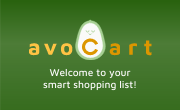
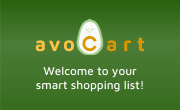
remove obsolete twitter tag, crop og image to visible area

Changed region(s): [[0.1389, 0.2182, 0.8611, 0.5455], [0.1944, 0.6, 0.8056, 0.8455], [0.4444, 0.1636, 0.5278, 0.2455]]

diff --git a/public/index.html b/public/index.html
@@ -32,12 +32,6 @@
     <meta property="og:image:alt" content="AvoCart logo" />
 
     <meta name="twitter:card" content="summary">
-    <meta data-react-helmet="true" name="twitter:creator" content="
-      @ablizben,
-      @caitlinfloyd,
-      @daria_tsss,
-      @katochwatch
-    ">
     <meta name="twitter:title" content="AvoCart - Your Smart Shopping List">
     <meta name="twitter:description" content="Smart shopping list that learns your buying habits and helps you remember what you need to buy on your next trip to the store.">
 
